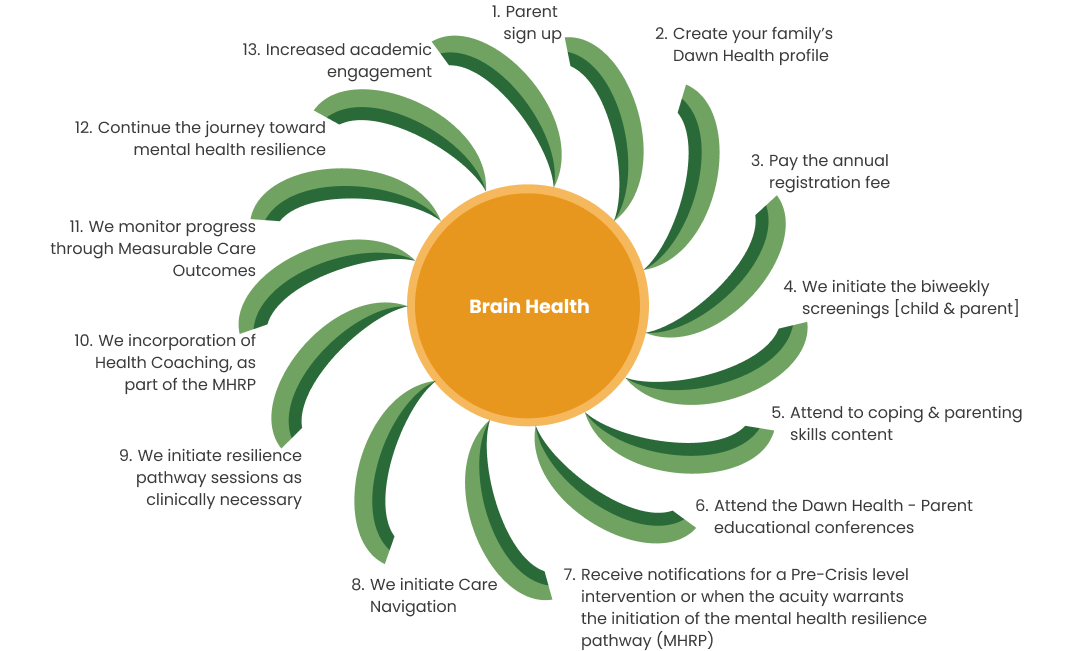
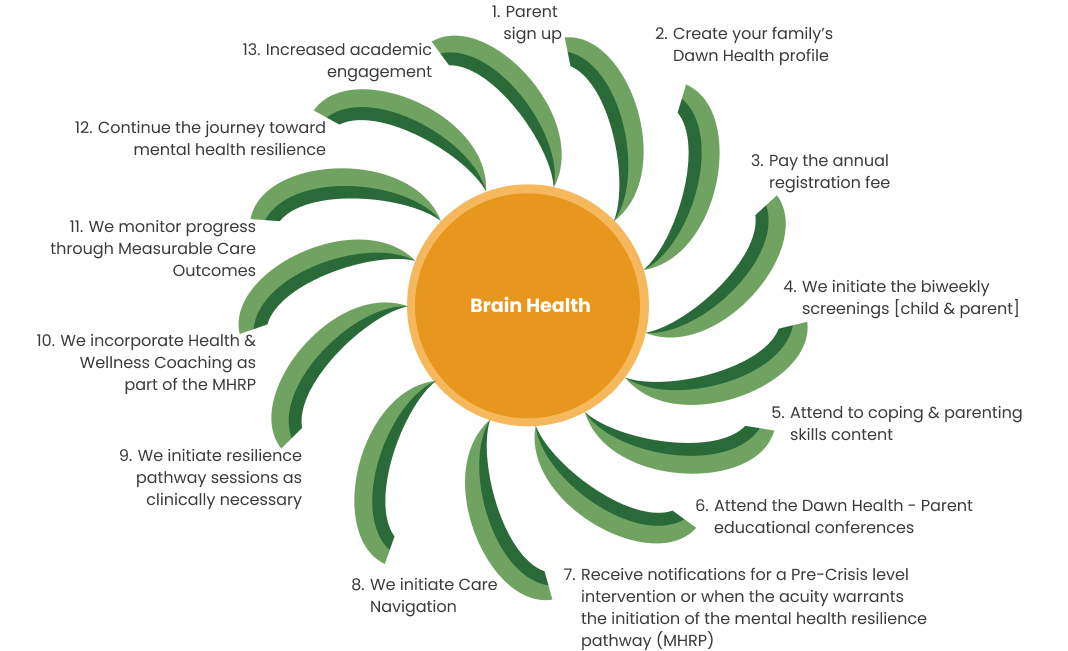
changes

Changed region(s): [[0.0618, 0.4916, 0.2472, 0.5837], [0.4326, 0.4608, 0.5562, 0.4916]]

diff --git a/src/components/Form/index.jsx b/src/components/Form/index.jsx
@@ -124,7 +124,6 @@ function Form() {
     setNumChildren(arr);
   };
   const handleHearAboutChange = (event) => {
-    // setAmbassador(event.target.value);
     setHearAbout(event.target.value);
   };
 
@@ -141,17 +140,24 @@ function Form() {
     mode: 'onBlur',
   });
 
+  const promocode = watch('code');
   useEffect(() => {
-    const firstChildCost = 499;
+    let firstChildCost;
+    if (promocode === 'DH23') {
+      firstChildCost = 499 / 2;
+    } else {
+      firstChildCost = 499;
+    }
     const additionalChildCost = 249;
 
     const totalCost =
       firstChildCost + (numChildren.length - 1) * additionalChildCost;
-    setCost(totalCost);
-  }, [numChildren.length]);
-
-  const hasInsurance = watch('hasInsurance');
-  const insurance = watch('insurance');
+    if (numChildren.length <= 0) {
+      setCost(0);
+    } else {
+      setCost(totalCost);
+    }
+  }, [numChildren, promocode]);
 
   const sendEmail = (data, reset) => {
     setLoading(true);
@@ -199,6 +205,7 @@ function Form() {
       confirmData,
       city,
       ambassador,
+      code,
       ...rest
     } = data;
     const res = {
@@ -290,7 +297,7 @@ function Form() {
               register={register}
               name="parentFirstName"
               placeholder="Parent's First Name"
-              validation={{ required: true }}
+              validation={{ required: 'First name is required' }}
               errors={errors}
             />
           </Col>
@@ -300,7 +307,7 @@ function Form() {
               register={register}
               name="parentLastName"
               placeholder="Parent's Last Name"
-              validation={{ required: true }}
+              validation={{ required: 'Last name is required' }}
               errors={errors}
             />
           </Col>
@@ -340,15 +347,25 @@ function Form() {
                 </OptionWrapper>
               ))}
             </SelectWrapper>
-            {errors.state && <Error>This field is required</Error>}
+            {errors.state && <Error>State is required</Error>}
           </Col>
-          <Col md={12} className="mb-4">
+          <Col md={6} className="mb-4">
             <label>City</label>
             <Input
               register={register}
               name="city"
               placeholder="City"
-              validation={{ required: true }}
+              validation={{ required: 'City is required' }}
+              errors={errors}
+            />
+          </Col>
+          <Col md={6} className="mb-4">
+            <label>CODE</label>
+            <Input
+              register={register}
+              name="code"
+              placeholder="Promo code"
+              validation={{ required: false }}
               errors={errors}
             />
           </Col>
@@ -360,7 +377,13 @@ function Form() {
               register={register}
               name="email"
               placeholder="Email Address"
-              validation={{ required: true }}
+              validation={{
+                required: 'Email is required',
+                pattern: {
+                  value: /^[A-Z0-9._%+-]+@[A-Z0-9.-]+\.[A-Z]{2,4}$/i,
+                  message: 'Invalid email address',
+                },
+              }}
               errors={errors}
             />
           </Col>
@@ -381,7 +404,7 @@ function Form() {
               ))}
             </SelectWrapper>
             {errors.numOfChildern && numChildren.length == 0 && (
-              <Error>This field is required</Error>
+              <Error>Children field is required</Error>
             )}
           </Col>
         </Row>
@@ -394,7 +417,7 @@ function Form() {
                   register={register}
                   name={`child${child}Age`}
                   placeholder={`Child ${child} Age`}
-                  validation={{ required: true }}
+                  validation={{ required: 'Age is required' }}
                   errors={errors}
                   type="number"
                 />
@@ -431,7 +454,7 @@ function Form() {
               ))}
             </SelectWrapper>
             {errors.hearAboutUs && hearAbout.length == 0 && (
-              <Error>This field is required</Error>
+              <Error>Required field</Error>
             )}
           </Col>
           {hearAbout === 'Dawn Health Ambassador' && (
@@ -452,7 +475,7 @@ function Form() {
                 ))}
               </SelectWrapper>
               {errors.ambassador && ambassador.length == 0 && (
-                <Error>This field is required</Error>
+                <Error>Required field</Error>
               )}
             </Col>
           )}

diff --git a/src/data/team.js b/src/data/team.js
@@ -15,13 +15,6 @@ export const teamMembers = [
   //   id: 223344,
   //   title: 'Clinical Excellence Advisory Team',
   //   members: [
-  //     {
-  //       id: 7,
-  //       name: 'Lauren Fulkerson, MD',
-  //       status: 'PEDIATRICS. PARENTING, & HEALTH COACHING ADVISOR',
-  //       src: Team9,
-  //       alt: 'team',
-  //     },
 
   // {
   //   id: 9,
@@ -71,7 +64,7 @@ export const members = [
         {
           id: 1,
           name: 'Panos Efsta, MBA, MS',
-          status: 'Founder, President & Chief System Officer',
+          status: 'Founder & CEO',
           src: Team1,
           alt: 'team',
           lead: true,
@@ -116,6 +109,13 @@ export const members = [
         //   alt: 'team',
         //   lead: true,
         // },
+        {
+          id: 7,
+          name: 'Lauren Fulkerson, MD',
+          status: 'Pediatrician',
+          src: Team9,
+          alt: 'team',
+        },
         {
           id: 5,
           name: 'Kate Efsta, SHRM-CP',

diff --git a/src/pages/home.jsx b/src/pages/home.jsx
@@ -59,7 +59,7 @@ const HomePage = () => {
                     className="mb-1 parent"
                     onClick={() => navigate('/signup')}
                   >
-                    Parents Click Here
+                    Register Here
                   </Button>
                   <Button
                     className="mb-3 ambassador"
@@ -154,7 +154,7 @@ const HomePage = () => {
                 className="text-center wow animate__animated animate__zoomIn"
               >
                 <Button className="mb-1" onClick={() => navigate('/signup')}>
-                  Parents Click Here
+                  Register Here
                 </Button>
                 {/* <Para className="wow animate__animated animate__fadeInLeft">
                   Discover a world where peace of mind and a sense of belonging

diff --git a/src/data/services.js b/src/data/services.js
@@ -89,7 +89,7 @@ export const therapy = [
   },
   {
     id: 90002,
-    title: "🌞 Health Coaching: Your Family's Daily Sunshine",
+    title: "🌞 Health & Wellness Coaching: Your Family's Daily Sunshine",
     description:
       "Picture a knowledgeable friend guiding you through the day-to-day aspects of wellness—nutrition, exercise, and daily habits. That's what health coaching offers. Health coaches are like your family's personal cheerleaders, setting achievable goals and cheering you on every step of the way. From meal plans to exercise routines, a health coach helps lay the foundation for a vibrant, energetic life.",
   },

diff --git a/src/pages/services.jsx b/src/pages/services.jsx
@@ -44,7 +44,7 @@ const ServicesPage = () => {
                   className="mt-3 mb-3"
                   onClick={() => navigate('/signup')}
                 >
-                  Parents Click Here
+                  Register Here
                 </Button>
               </Col>
               <Col
@@ -198,7 +198,7 @@ const ServicesPage = () => {
                   className="mb-5 wow animate__animated animate__zoomIn"
                   onClick={() => navigate('/signup')}
                 >
-                  Parents Click Here
+                  Register Here
                 </Button>
               </Col>
             </Row>

diff --git a/src/pages/signup.jsx b/src/pages/signup.jsx
@@ -81,10 +81,10 @@ const SignupPage = () => {
                   <Col md={12} lg={6}>
                     <ValueCard
                       className="mb-5"
-                      title="Health Coaching Session Cost"
+                      title="Health & Wellness Coaching Session Cost"
                     >
                       $80.00 each for guidance and expertise from a
-                      board-certified health coach.
+                      board-certified health & wellness coach.
                     </ValueCard>
                   </Col>
                   <Col md={12} lg={6}>

diff --git a/public/index.html b/public/index.html
@@ -45,6 +45,18 @@
       href="https://fonts.googleapis.com/css2?family=Poppins:wght@100;200;300;400;500;600;700;800;900&display=swap"
       rel="stylesheet"
     />
+    <script
+      async
+      src="https://www.googletagmanager.com/gtag/js?id=G-SC3K120VMV"
+    ></script>
+    <script>
+      window.dataLayer = window.dataLayer || [];
+      function gtag() {
+        dataLayer.push(arguments);
+      }
+      gtag('js', new Date());
+      gtag('config', 'G-SC3K120VMV');
+    </script>
     <script type="text/javascript">
       (function (l) {
         if (l.search[1] === '/') {

diff --git a/src/components/Input/index.jsx b/src/components/Input/index.jsx
@@ -24,9 +24,14 @@ const Input = (props) => {
         {...register(name, validation)}
         {...rest}
       />
-      {errors[name]?.type === 'required' && (
+      {/* {errors[name]?.type === 'required' && (
         <Error role="alert" className="mb-0">
           {errors[name] && <span>This field is required</span>}
+        </Error>
+      )} */}
+      {errors[name] && (
+        <Error role="alert" className="mb-0">
+          {errors[name].message}
         </Error>
       )}
     </>

diff --git a/src/components/PhoneInput/index.jsx b/src/components/PhoneInput/index.jsx
@@ -26,7 +26,7 @@ const Example = ({
         />
         {errors[name]?.type === 'required' && !phoneNumber && (
           <Error role="alert" className="mb-0">
-            {errors[name] && <span>This field is required</span>}
+            {errors[name] && <span>Phone no is required</span>}
           </Error>
         )}
       </PhoneInputWrapper>

diff --git a/src/components/Checkbox/index.jsx b/src/components/Checkbox/index.jsx
@@ -25,7 +25,7 @@ const Checkbox = ({
       </label>
       {errors[name]?.type === 'required' && !isOpen && (
         <Error role="alert" className="mb-0">
-          {errors[name] && <span>Required</span>}
+          {errors[name] && <span>Required field</span>}
         </Error>
       )}
     </>
